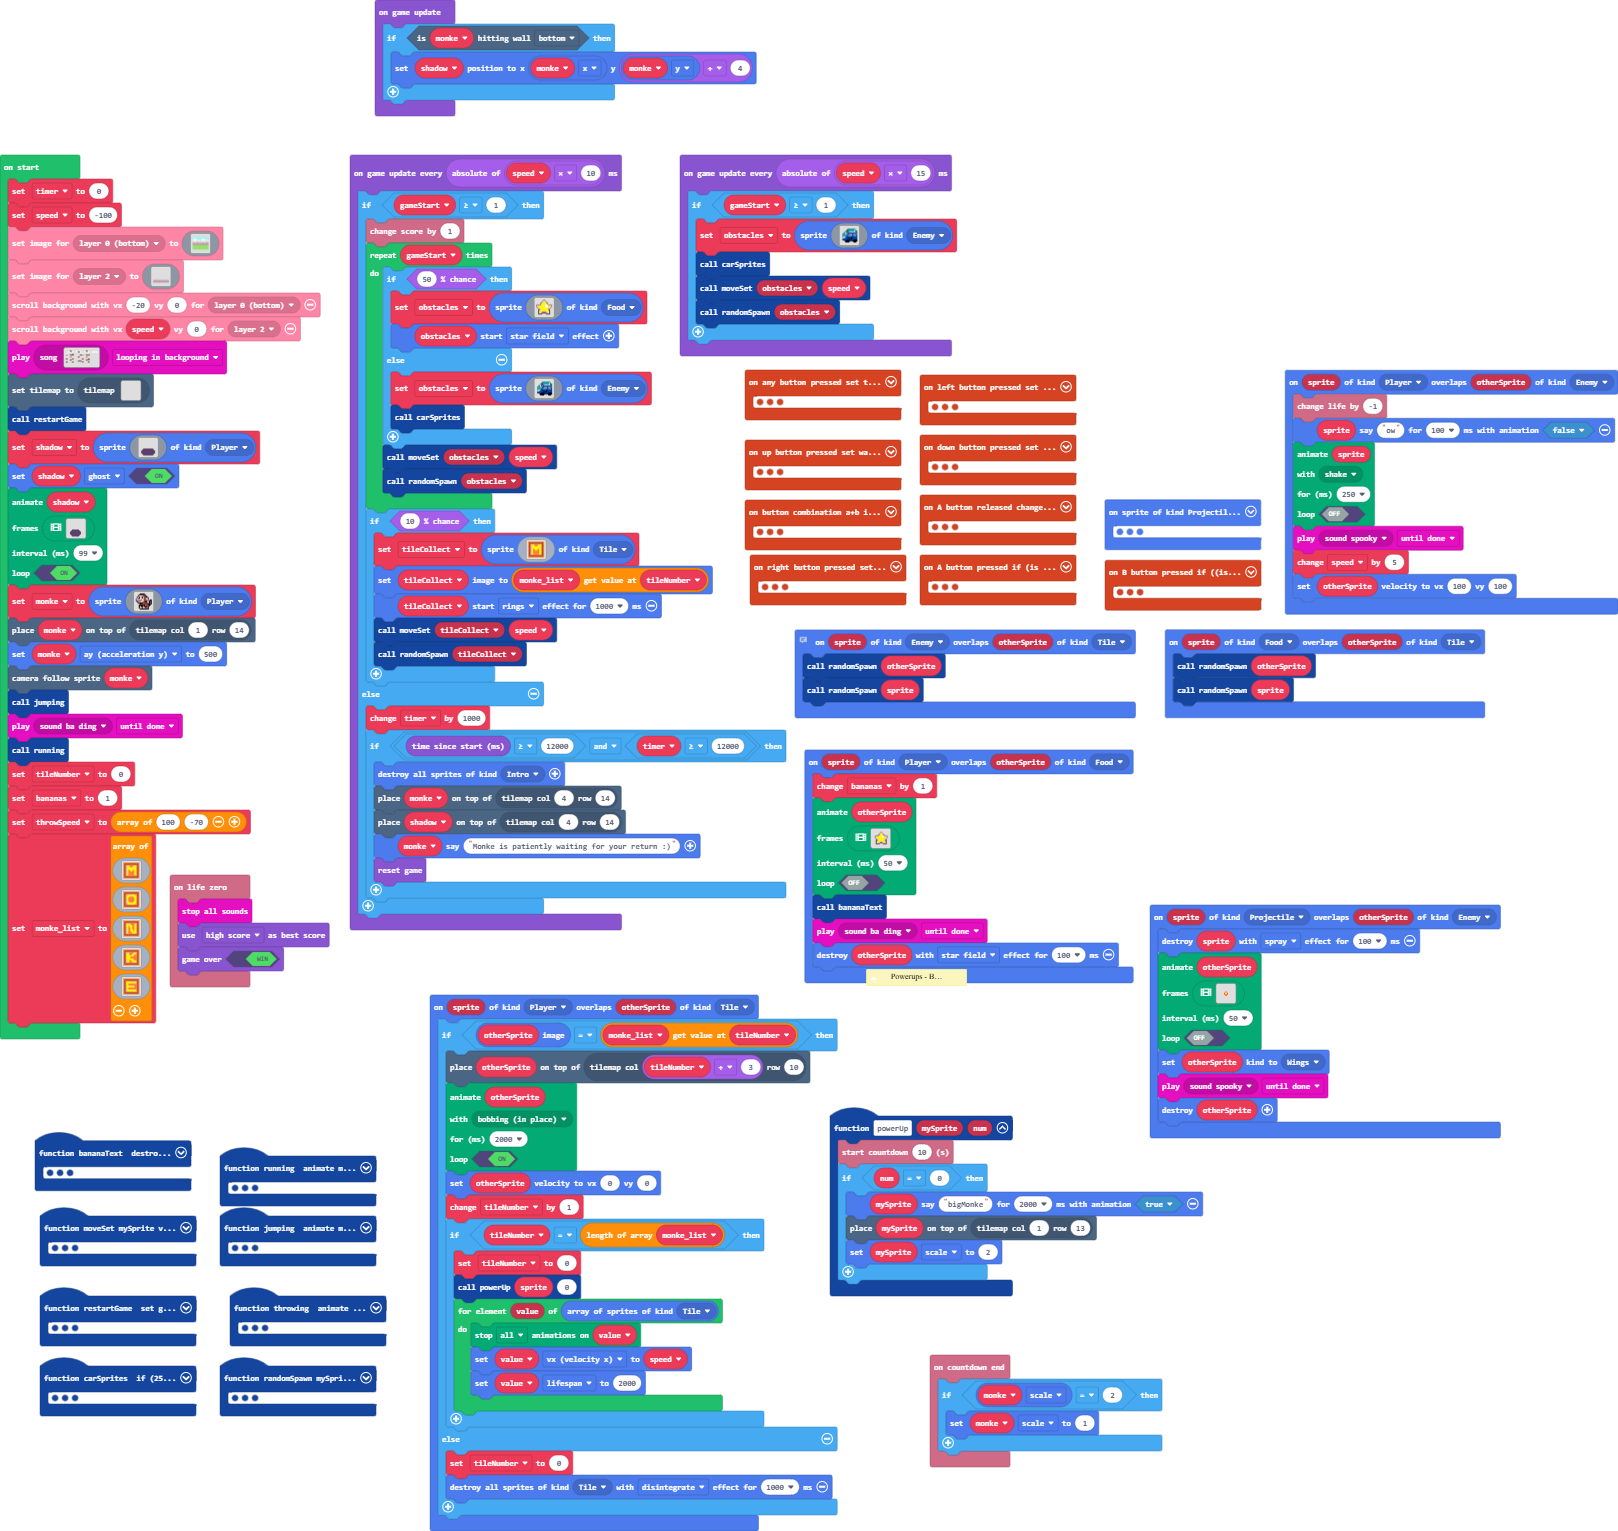
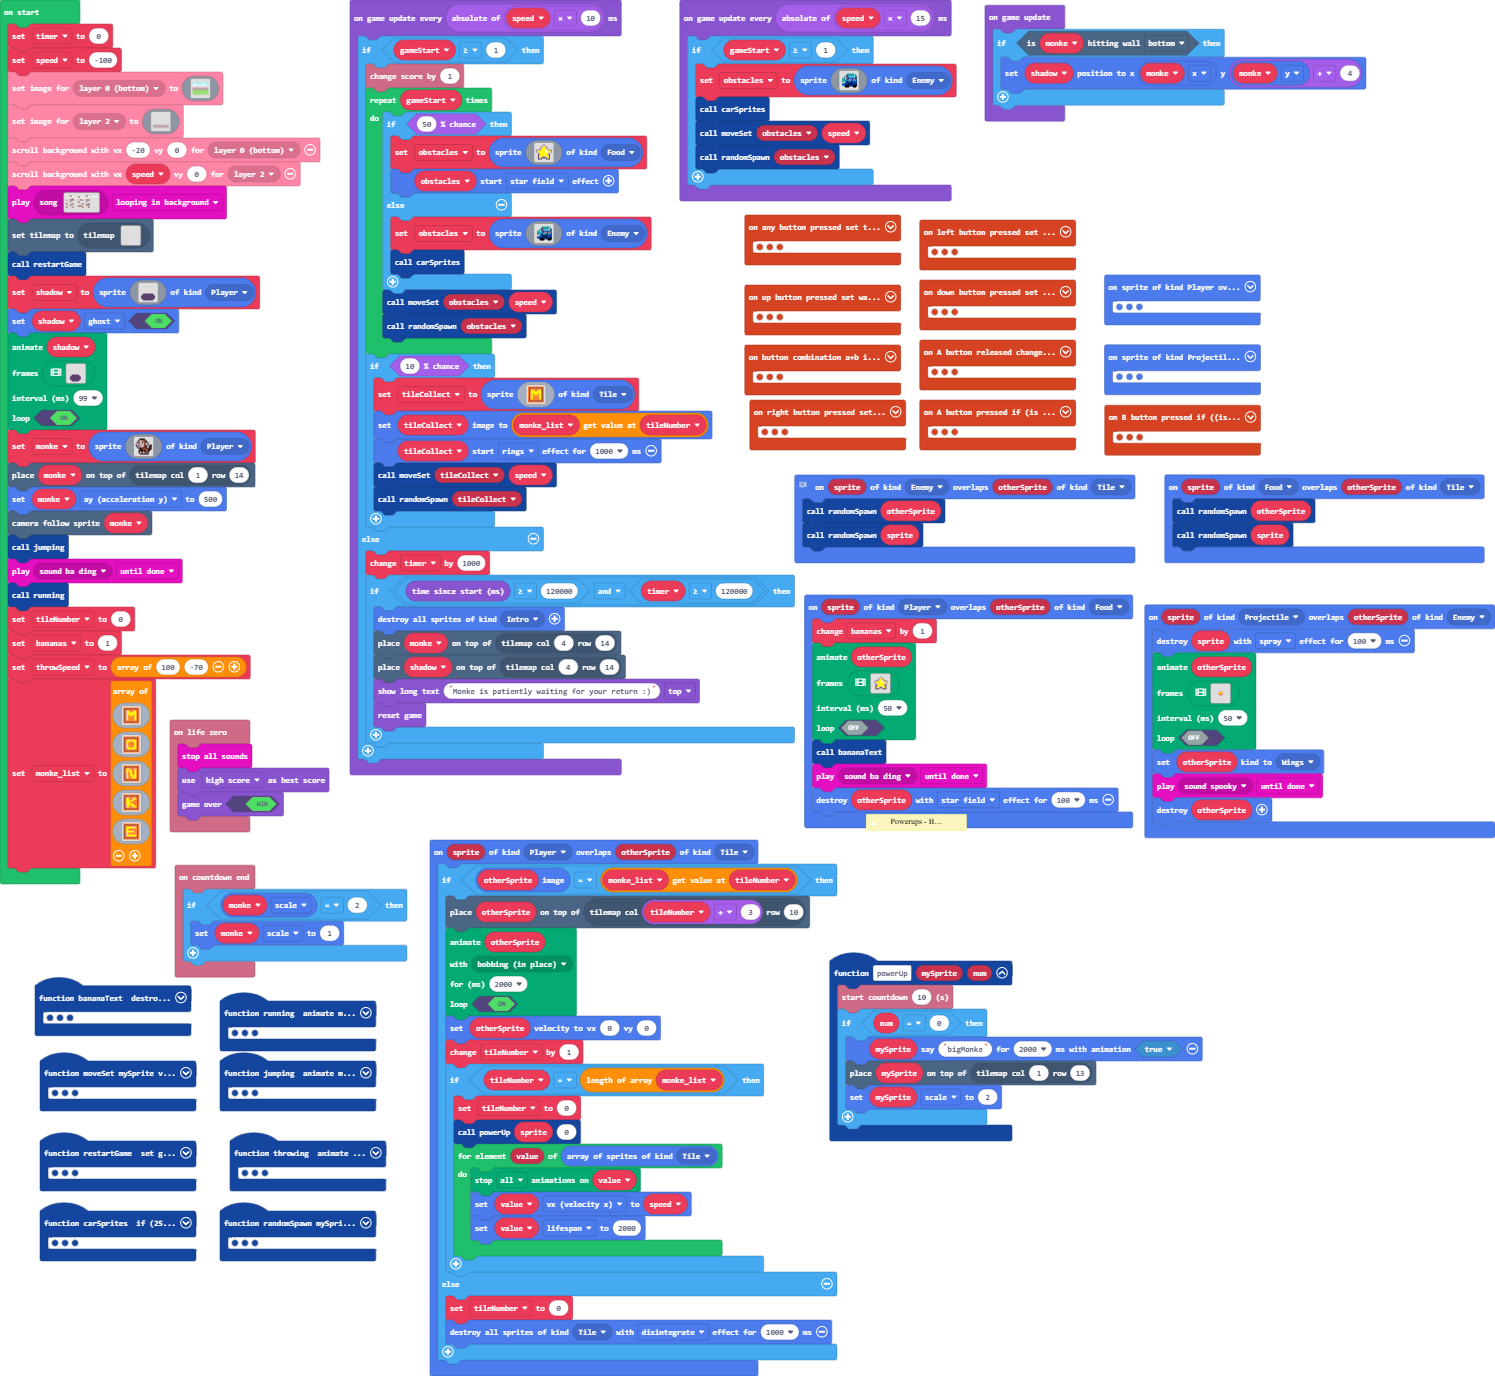
Update main.blocks, main.ts

diff --git a/main.ts b/main.ts
@@ -4,6 +4,19 @@ namespace SpriteKind {
     export const Tile = SpriteKind.create()
     export const Shadow = SpriteKind.create()
 }
+sprites.onOverlap(SpriteKind.Player, SpriteKind.Enemy, function (sprite, otherSprite) {
+    info.changeLifeBy(-1)
+    sprite.sayText("ow", 100, false)
+    animation.runMovementAnimation(
+    sprite,
+    animation.animationPresets(animation.shake),
+    250,
+    false
+    )
+    music.play(music.melodyPlayable(music.spooky), music.PlaybackMode.UntilDone)
+    speed += 5
+    otherSprite.setVelocity(100, 100)
+})
 function jumping () {
     animation.runImageAnimation(
     monke,
@@ -1121,19 +1134,6 @@ sprites.onOverlap(SpriteKind.Projectile, SpriteKind.Enemy, function (sprite, oth
     music.play(music.melodyPlayable(music.spooky), music.PlaybackMode.UntilDone)
     sprites.destroy(otherSprite)
 })
-sprites.onOverlap(SpriteKind.Player, SpriteKind.Enemy, function (sprite, otherSprite) {
-    info.changeLifeBy(-1)
-    sprite.sayText("ow", 100, false)
-    animation.runMovementAnimation(
-    sprite,
-    animation.animationPresets(animation.shake),
-    250,
-    false
-    )
-    music.play(music.melodyPlayable(music.spooky), music.PlaybackMode.UntilDone)
-    speed += 5
-    otherSprite.setVelocity(100, 100)
-})
 let tileCollect: Sprite = null
 let wings: Sprite = null
 let banana: Sprite = null
@@ -1703,11 +1703,11 @@ game.onUpdateInterval(Math.abs(speed * 10), function () {
         }
     } else {
         timer += 1000
-        if (game.runtime() >= 12000 && timer >= 12000) {
+        if (game.runtime() >= 120000 && timer >= 120000) {
             sprites.destroyAllSpritesOfKind(SpriteKind.Intro)
             tiles.placeOnTile(monke, tiles.getTileLocation(4, 14))
             tiles.placeOnTile(shadow, tiles.getTileLocation(4, 14))
-            monke.sayText("Monke is patiently waiting for your return :)")
+            game.showLongText("Monke is patiently waiting for your return :)", DialogLayout.Top)
             game.reset()
         }
     }
